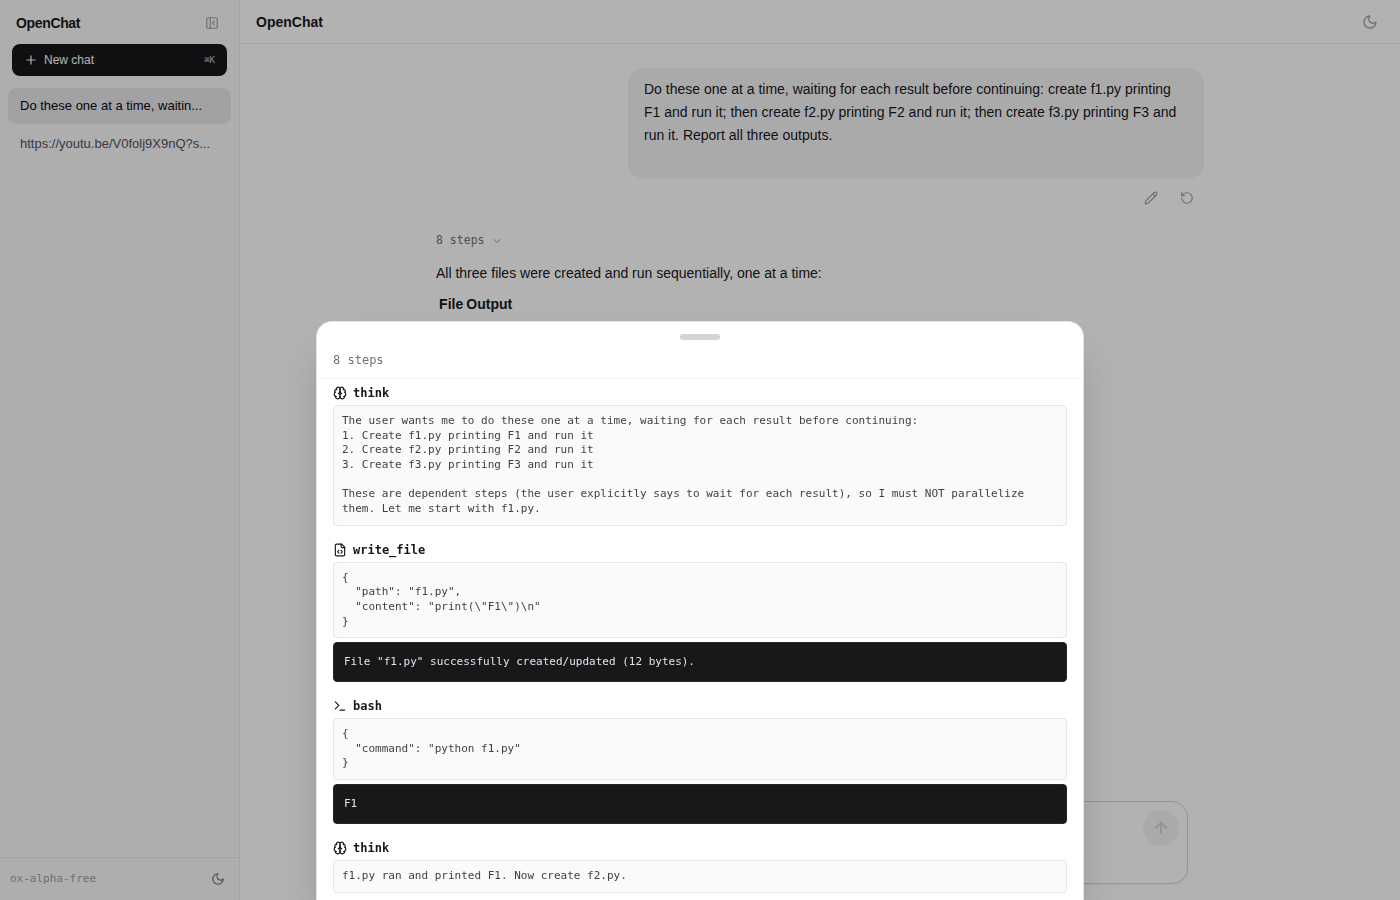
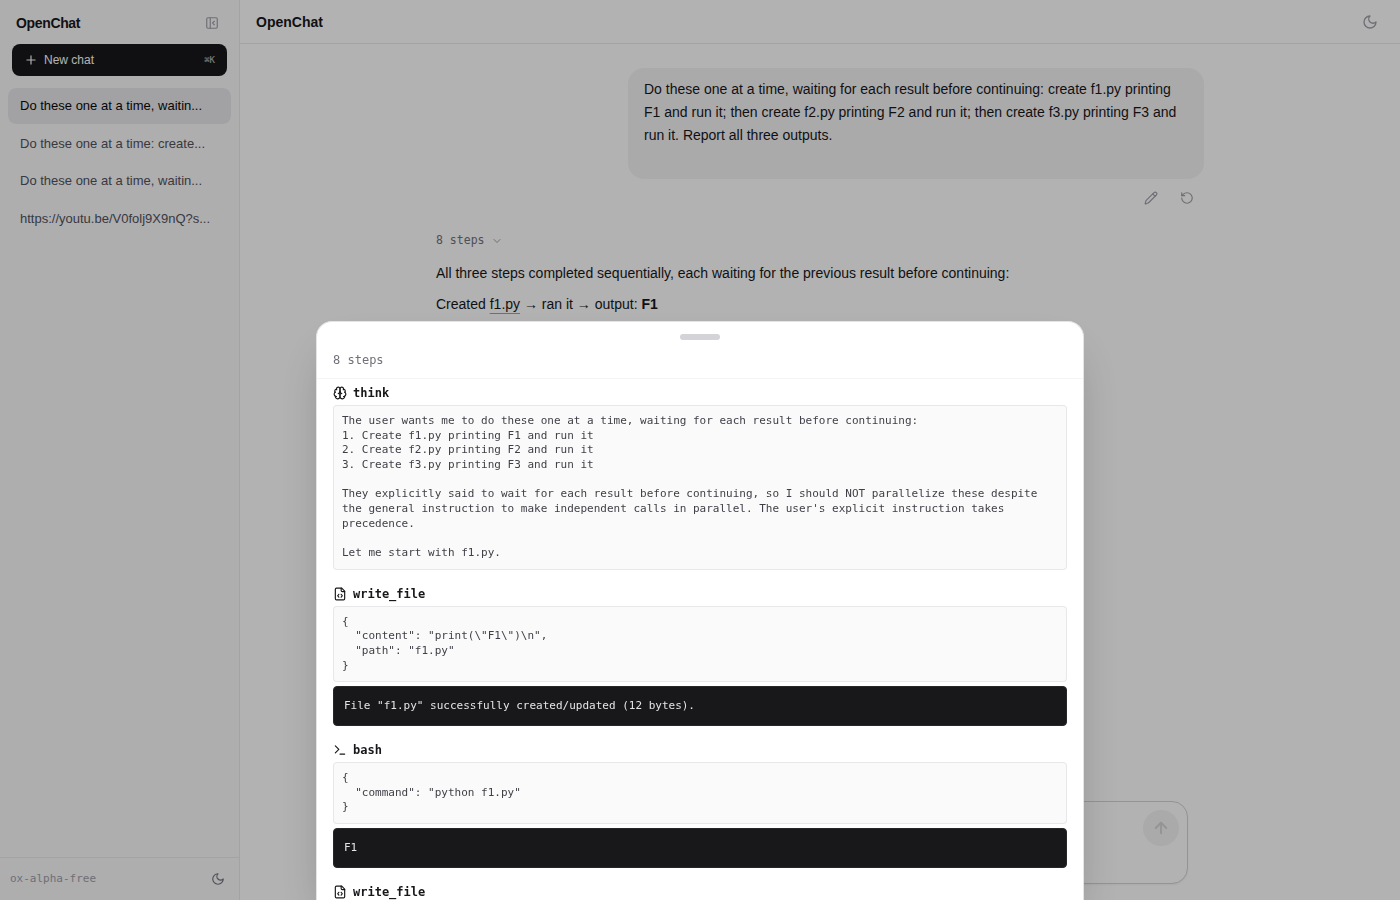
budget: script-aware token estimation (145K tok cap), preserve only current-task turns verbatim

diff --git a/src/agent/context.ts b/src/agent/context.ts
@@ -20,9 +20,24 @@ export type HistoryRecord = {
 };
 
 export interface HistoryOptions {
-  budgetChars?: number;
+  /** Token ceiling for retained history (script-aware estimate). */
+  budgetTokens?: number;
   recentFullTools?: number;
   maxRecords?: number;
+}
+
+// Script-aware token estimation. Measured ratios vary by tokenizer
+// (English prose ~4-5 chars/token; Hangul shatters to ~1 token per syllable
+// block, corpus-measured 1.8-2.5 chars/token). We take conservative values so
+// real usage never overshoots the budget:
+//   ASCII/Latin/code: 4 chars per token, CJK (Hangul/Han/Kana/fullwidth): 1.5.
+const CJK_CHAR = /[\u1100-\u11FF\u2E80-\u9FFF\uAC00-\uD7A3\u3040-\u30FF\u3400-\u4DBF\uF900-\uFAFF\uFF00-\uFFEF]/g;
+
+export function estimateTokens(text: string): number {
+  if (!text) return 0;
+  const cjk = (text.match(CJK_CHAR) || []).length;
+  const other = text.length - cjk;
+  return Math.ceil(other / 4 + cjk / 1.5);
 }
 
 export interface HistoryStats {
@@ -31,8 +46,8 @@ export interface HistoryStats {
   unitsTotal: number;
   unitsDropped: number;
   toolsCollapsed: number;
-  charsIn: number;
-  charsKept: number;
+  tokensIn: number;
+  tokensKept: number;
 }
 
 export interface BuiltMessage {
@@ -56,13 +71,17 @@ function parseToolCalls(raw: any): any[] {
 }
 
 // Unit: the smallest slice that may move as one piece across a budget cut.
+// Size is an estimated token count (content + serialized tool_call arguments,
+// which are billed like any other prompt text).
 type Unit = { recs: HistoryRecord[]; size: number };
+
+const OVERHEAD_TOKENS_PER_RECORD = Math.ceil(OVERHEAD_PER_RECORD / 4);
 
 function unitSize(recs: HistoryRecord[]): number {
   let n = 0;
   for (const r of recs) {
-    n += OVERHEAD_PER_RECORD + (r.content?.length ?? 0);
-    if (r.tool_calls) n += JSON.stringify(r.tool_calls).length;
+    n += OVERHEAD_TOKENS_PER_RECORD + estimateTokens(r.content ?? "");
+    if (r.tool_calls) n += estimateTokens(JSON.stringify(r.tool_calls));
   }
   return n;
 }
@@ -89,7 +108,7 @@ export function buildHistory(
   records: HistoryRecord[],
   opts: HistoryOptions = {}
 ): { messages: BuiltMessage[]; stats: HistoryStats } {
-  const budgetChars = opts.budgetChars ?? 120_000;
+  const budgetTokens = opts.budgetTokens ?? 145_000;
   const recentFullTools = Math.max(0, opts.recentFullTools ?? 8);
   const maxRecords = Math.max(1, opts.maxRecords ?? 200);
 
@@ -125,23 +144,27 @@ export function buildHistory(
 
   for (const u of units) u.size = unitSize(u.recs);
 
-  // ---- Pass 2: backward walk under the char budget ------------------------
-  // User-message units are NEVER budget-cut: they carry the task intent, and
-  // dropping them yields payloads with zero user messages, which gateways
-  // reject outright (observed: HTTP 400 "messages parameter is illegal").
-  // Non-user units compete for the budget newest-first; the newest unit is
-  // always kept even if it alone exceeds the budget.
+  // ---- Pass 2: current task verbatim, older history under token budget ----
+  // The CURRENT task starts at its (last) user message; that unit and
+  // everything after it are kept whole — they are live work, and dropping the
+  // active user message yields payloads with no user turn at all, which
+  // gateways reject outright (observed: HTTP 400 "messages parameter is
+  // illegal"). Everything OLDER competes newest-first under the token budget;
+  // the newest older unit is still kept even if it alone exceeds what's left.
   const isUserUnit = (u: Unit) => u.recs[0]?.role === "user";
-  const keep = new Array<boolean>(units.length).fill(false);
-  let spent = 0;
-  let keptCount = 0;
+  let currentUserIdx = -1;
   for (let i = units.length - 1; i >= 0; i--) {
-    if (isUserUnit(units[i])) {
-      keep[i] = true;
-      keptCount++;
-      continue;
-    }
-    if (spent < budgetChars) {
+    if (isUserUnit(units[i])) { currentUserIdx = i; break; }
+  }
+  const keep = new Array<boolean>(units.length).fill(false);
+  let keptCount = 0;
+  if (currentUserIdx !== -1) {
+    for (let i = currentUserIdx; i < units.length; i++) { keep[i] = true; keptCount++; }
+  }
+  let spent = 0;
+  for (let i = units.length - 1; i >= 0; i--) {
+    if (keep[i]) continue;
+    if (spent < budgetTokens) {
       keep[i] = true;
       keptCount++;
       spent += units[i].size;
@@ -196,8 +219,8 @@ export function buildHistory(
     }
   }
 
-  const charsIn = records.reduce((a, r) => a + (r.content?.length ?? 0), 0);
-  const charsKept = sliced.reduce((a, r) => a + (r.content?.length ?? 0), 0);
+  const tokensIn = units.reduce((a, u) => a + u.size, 0);
+  const tokensKept = keptUnits.reduce((a, u) => a + u.size, 0);
   return {
     messages,
     stats: {
@@ -206,8 +229,8 @@ export function buildHistory(
       unitsTotal: units.length,
       unitsDropped: units.length - keptCount,
       toolsCollapsed,
-      charsIn,
-      charsKept,
+      tokensIn,
+      tokensKept,
     },
   };
 }

diff --git a/tests/test_context.ts b/tests/test_context.ts
@@ -52,7 +52,7 @@ const obs = (id: string, body: string, name = "bash"): HistoryRecord => ({
     recs.push(call(`p${i}`, "bash", { cmd: "x".repeat(2000) }));
     recs.push(obs(`p${i}`, "y".repeat(20000)));
   }
-  const { messages, stats } = buildHistory(recs, { budgetChars: 50_000 });
+  const { messages, stats } = buildHistory(recs, { budgetTokens: 9_000 });
   check("pair: first message not a tool result", messages[0].role !== "tool", String(messages[0].role));
   // Every tool result's preceding assistant must carry its tool_call id.
   let pairsOk = true;
@@ -116,7 +116,7 @@ const obs = (id: string, body: string, name = "bash"): HistoryRecord => ({
 {
   const huge = obs("h", "z".repeat(300_000));
   const recs = [user("old"), call("o"), obs("o", "older"), user("new"), call("h"), huge];
-  const { messages } = buildHistory(recs, { budgetChars: 10_000 });
+  const { messages } = buildHistory(recs, { budgetTokens: 2_500 });
   check("oversize-last-unit: still present", messages.some((m) => m.content?.startsWith("zzz")));
 }
 
@@ -129,10 +129,9 @@ const obs = (id: string, body: string, name = "bash"): HistoryRecord => ({
   check("immutable inputs", recs.every((r, i) => r.content === before[i]));
 }
 
-// 10. REGRESSION (2026-08-23 incident): crossing the budget must never drop
-// user messages. Large tool-call args pushed real size past the budget while
-// content-only chars looked small; the old cut dropped the opening user unit,
-// producing a zero-user-message payload the gateway rejected with HTTP 400.
+// 10. REGRESSION (2026-08-23 incident): the CURRENT task's user message and
+// everything after it must survive any budget cut; older turns compete for
+// the remaining token budget newest-first.
 {
   const recs: HistoryRecord[] = [user("ORIGINAL TASK PROMPT")];
   for (let i = 0; i < 12; i++) {
@@ -140,12 +139,11 @@ const obs = (id: string, body: string, name = "bash"): HistoryRecord => ({
     recs.push(obs(`big${i}`, "ok"));
     if (i % 4 === 3) recs.push(user(`follow-up ${i}`));
   }
-  const { messages, stats } = buildHistory(recs, { budgetChars: 50_000 });
+  const { messages, stats } = buildHistory(recs, { budgetTokens: 9_000 });
   const allText = messages.map((m) => m.content ?? "").join("\n");
-  check("regression: first task prompt survives", allText.includes("ORIGINAL TASK PROMPT"));
-  check("regression: follow-up prompts survive", [3, 7, 11].every((i) => allText.includes(`follow-up ${i}`)));
-  check("regression: budget still cuts tool units", stats.unitsDropped > 0, `${stats.unitsDropped}`);
-  // Pair safety must hold in the surviving slice.
+  check("regression: current-task user survives", allText.includes("follow-up 11"));
+  check("regression: stale task prompt may be cut", !allText.includes("ORIGINAL TASK PROMPT"));
+  check("regression: budget still cuts old units", stats.unitsDropped > 0, `${stats.unitsDropped}`);
   let pairsOk = true;
   for (let i = 0; i < messages.length; i++) {
     if ((messages[i] as any).role === "tool") {
@@ -157,9 +155,18 @@ const obs = (id: string, body: string, name = "bash"): HistoryRecord => ({
   check("regression: pairs intact after cut", pairsOk);
 }
 
+// 10b. Generous budget keeps everything, including all user turns.
+{
+  const { messages } = buildHistory(
+    [user("old"), assistant("mid"), user("new")],
+    { budgetTokens: 100_000 }
+  );
+  check("generous: all users kept", messages.filter(m => m.role === "user").length === 2);
+}
+
 // 11. A session whose ONLY unit is one oversized user message keeps it.
 {
-  const { messages } = buildHistory([user("y".repeat(200_000))], { budgetChars: 10_000 });
+  const { messages } = buildHistory([user("y".repeat(200_000))], { budgetTokens: 2_500 });
   check("oversized lone user kept", messages.length === 1 && messages[0].content?.length === 200_000);
 }
 

diff --git a/src/config.ts b/src/config.ts
@@ -18,7 +18,10 @@ export const CONFIG = {
   TOOL_ARCHIVE_MAX_CHARS: parseInt(process.env.OPENCHAT_TOOL_ARCHIVE_MAX || "262144", 10),
   TOOL_OUTPUT_KEEP_PER_SESSION: parseInt(process.env.OPENCHAT_TOOL_KEEP_N || "200", 10),
   TOOL_OUTPUT_MAX_AGE_DAYS: parseInt(process.env.OPENCHAT_TOOL_MAX_AGE_DAYS || "7", 10),
-  HISTORY_BUDGET_CHARS: parseInt(process.env.OPENCHAT_HISTORY_BUDGET || "120000", 10),
+  // History budget in estimated TOKENS (script-aware: CJK ~1.5 ch/tok,
+  // ASCII ~4 ch/tok). 145K leaves headroom under a ~150K total context for
+  // the system prompt, tool schemas, and the model's response.
+  HISTORY_BUDGET_TOKENS: parseInt(process.env.OPENCHAT_HISTORY_BUDGET_TOKENS || "145000", 10),
   HISTORY_RECENT_FULL_TOOLS: parseInt(process.env.OPENCHAT_RECENT_FULL_TOOLS || "8", 10),
   DB_PATH: path.resolve("/root/openchat/openchat.db"),
   MAX_AGENT_TURNS: parseInt(process.env.OPENCHAT_MAX_TURNS || "40", 10),

diff --git a/src/agent/harness.ts b/src/agent/harness.ts
@@ -516,7 +516,7 @@ Your current working directory (CWD) is set to your sandbox root.
     };
 
     const { messages } = buildHistory(records, {
-      budgetChars: CONFIG.HISTORY_BUDGET_CHARS,
+      budgetTokens: CONFIG.HISTORY_BUDGET_TOKENS,
       recentFullTools: CONFIG.HISTORY_RECENT_FULL_TOOLS,
     });
 
